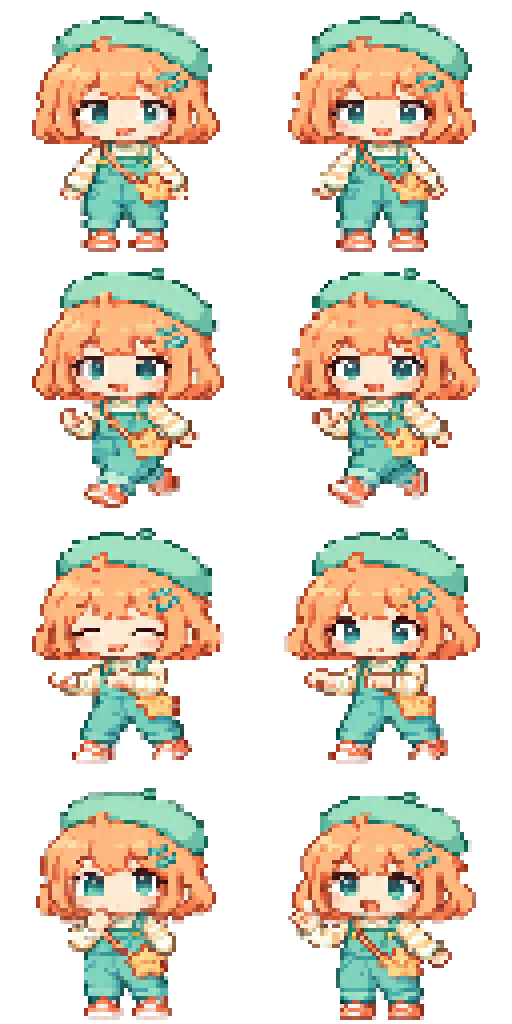
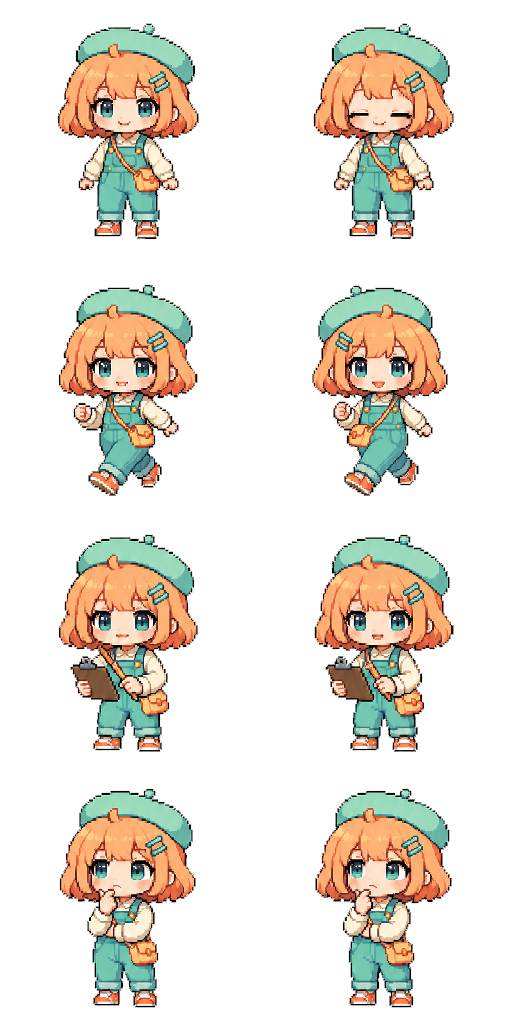
feat: 1차 기능 작성

diff --git a/docs/character-animation-preview.html b/docs/character-animation-preview.html
@@ -1,0 +1,27 @@
+<!doctype html>
+<html lang="ko">
+<meta charset="utf-8">
+<meta name="viewport" content="width=device-width,initial-scale=1">
+<title>캐릭터 프레임 미리보기</title>
+<style>
+*{box-sizing:border-box}body{margin:0;background:#20232b;color:#f5f2ee;font:15px system-ui,sans-serif;padding:24px}h1{font-size:24px;margin:0 0 8px}p{color:#b8bcc8;margin:0 0 16px}.controls{display:flex;gap:12px;align-items:center;flex-wrap:wrap;margin-bottom:20px}button,select{background:#383f4f;color:white;border:1px solid #626d82;border-radius:6px;padding:8px 12px;font:inherit}table{border-collapse:separate;border-spacing:6px}th{font-size:13px;font-weight:500;color:#b8bcc8}td{padding:0}canvas{display:block;width:clamp(64px,calc((100vw - 108px) / 5),192px);height:auto;image-rendering:pixelated;background:#a09895;border-radius:4px}.table-wrap{overflow:auto}small{color:#b8bcc8}body.grid canvas{outline:1px solid #fff5}
+</style>
+<h1>캐릭터 프레임 미리보기</h1>
+<p>512×1024 · 2열 × 4행 · 256×256 프레임 · 불투명 배경</p>
+<div class="controls"><button id="play">일시 정지</button><button id="a">프레임 A</button><button id="b">프레임 B</button><label>속도 <select id="speed"><option value="0.5">0.5×</option><option value="1" selected>1×</option><option value="2">2×</option></select></label><label><input type="checkbox" id="guide"> 셀 기준선</label><small id="status">이미지 로딩 중</small></div>
+<div class="table-wrap"><table><thead><tr><th>동작</th><th>char_0</th><th>char_1</th><th>char_2</th><th>char_3</th><th>char_4</th></tr></thead><tbody id="rows"></tbody></table></div>
+<script>
+const states=['idle','walk','work','think'], durations=[680,160,280,420];
+const images=Array.from({length:5},(_,i)=>{const image=new Image();image.src='../tools/generated-inputs/characters/char_'+i+'.png';return image});
+const cells=[];let paused=matchMedia('(prefers-reduced-motion: reduce)').matches, fixed=0,elapsed=0,last=performance.now();
+states.forEach((state,row)=>{const tr=document.createElement('tr');const th=document.createElement('th');th.textContent=state;tr.append(th);images.forEach((image,col)=>{const td=document.createElement('td'),canvas=document.createElement('canvas');canvas.width=canvas.height=256;canvas.setAttribute('aria-label','char_'+col+' '+state);td.append(canvas);tr.append(td);cells.push({canvas,image,row})});document.querySelector('#rows').append(tr)});
+function label(){document.querySelector('#play').textContent=paused?'재생':'일시 정지'}label();
+document.querySelector('#play').onclick=()=>{paused=!paused;label()};
+for(const [id,frame] of [['a',0],['b',1]])document.querySelector('#'+id).onclick=()=>{paused=true;fixed=frame;label()};
+let ready=false;
+Promise.all(images.map(image=>image.decode())).then(()=>{if(images.some(i=>i.naturalWidth!==512||i.naturalHeight!==1024))throw Error('이미지 규격 불일치');ready=true;document.querySelector('#status').textContent='5개 시트 · 40개 프레임 로드 완료'}).catch(error=>{document.querySelector('#status').textContent=error.message});
+function draw(now){if(!paused)elapsed+=(now-last)*Number(document.querySelector('#speed').value);last=now;if(ready)for(const {canvas,image,row} of cells){const frame=paused?fixed:Math.floor(elapsed/durations[row])%2,ctx=canvas.getContext('2d');ctx.imageSmoothingEnabled=false;ctx.drawImage(image,frame*256,row*256,256,256,0,0,256,256);canvas.dataset.frame=frame;if(document.querySelector('#guide').checked){ctx.strokeStyle='#ffffff80';ctx.setLineDash([3,3]);ctx.beginPath();ctx.moveTo(128,0);ctx.lineTo(128,256);ctx.moveTo(0,240);ctx.lineTo(256,240);ctx.stroke();ctx.strokeRect(12,12,232,232)}}requestAnimationFrame(draw)}requestAnimationFrame(draw);
+</script>
+</html>
+
+

diff --git a/src/components/PixelOffice.tsx b/src/components/PixelOffice.tsx
@@ -26,6 +26,7 @@ import {
   WORLD_COLS,
   WORLD_ROWS,
   characterFrame,
+  characterNeedsHorizontalFlip,
   characterStateRow,
   createBlockedTiles,
   directionBetween,
@@ -52,6 +53,8 @@ type Props = {
   onAssignPet: (role: AgentRole, petId: string) => void;
   characterAssignments: WorldCharacterAssignments;
   onAssignCharacter: (role: AgentRole, index: number) => void;
+  animationEnabled: boolean;
+  onToggleAnimation: () => void;
   onOpenResults: () => void;
 };
 
@@ -393,6 +396,8 @@ export function PixelOffice({
   modelLabel,
   characterAssignments,
   onAssignCharacter,
+  animationEnabled,
+  onToggleAnimation,
   onOpenResults,
 }: Props) {
   const canvasRef = useRef<HTMLCanvasElement | null>(null);
@@ -411,7 +416,7 @@ export function PixelOffice({
   const [zoom, setZoom] = useState(2);
   const [handoff, setHandoff] = useState<Handoff | null>(null);
   const handoffRef = useRef<Handoff | null>(null);
-  const [reducedMotion, setReducedMotion] = useState(() => window.matchMedia("(prefers-reduced-motion: reduce)").matches);
+  const reducedMotion = !animationEnabled;
 
   const agents = useMemo(() => {
     const byRole = new Map((run?.agents ?? []).map((agent) => [agent.role, agent]));
@@ -448,13 +453,6 @@ export function PixelOffice({
       if (window.render_game_to_text === renderWorldState) delete window.render_game_to_text;
       delete window.advanceTime;
     };
-  }, []);
-
-  useEffect(() => {
-    const query = window.matchMedia("(prefers-reduced-motion: reduce)");
-    const update = () => setReducedMotion(query.matches);
-    query.addEventListener("change", update);
-    return () => query.removeEventListener("change", update);
   }, []);
 
   useEffect(() => {
@@ -669,7 +667,7 @@ export function PixelOffice({
             if (!sprite) return;
             const frame = reducedMotion ? 0 : characterFrame(agent.snapshot.activity, moving, simulationTime / 1000 + agent.spriteIndex * 0.17);
             const row = characterStateRow(agent.snapshot.activity, moving);
-            if (agent.direction === "left") {
+            if (characterNeedsHorizontalFlip(agent.direction, moving)) {
               ctx.save();
               ctx.translate(drawX + CHARACTER_DRAW_WIDTH * currentZoom, 0);
               ctx.scale(-1, 1);
@@ -833,6 +831,15 @@ export function PixelOffice({
            <span>{zoom}×</span>
            <button type="button" onClick={() => setWorldZoom(zoom + 1)} disabled={zoom >= 4} aria-label="확대">+</button>
            <button type="button" onClick={() => { panRef.current = { x: 0, y: 0 }; setWorldZoom(2); }}>RESET</button>
+           <button
+             type="button"
+             className={`pixel-motion-toggle ${animationEnabled ? "active" : ""}`}
+             aria-pressed={animationEnabled}
+             aria-label={animationEnabled ? "애니메이션 끄기" : "애니메이션 켜기"}
+             onClick={onToggleAnimation}
+           >
+             {animationEnabled ? "애니 ON" : "애니 OFF"}
+           </button>
          </div>
        </div>
 
@@ -868,6 +875,7 @@ export function PixelOffice({
 
         <div className={`pixel-asset-status ${assetStatus.errors.length ? "has-error" : ""}`}>
           {assetStatus.loaded < assetStatus.total ? `ASSETS ${assetStatus.loaded}/${assetStatus.total}` : assetStatus.errors.length ? `${assetStatus.errors.length} ASSET ERRORS` : "PIXEL ASSETS READY"}
+          <small className="pixel-motion-status">{animationEnabled ? " · ANIMATION ON" : " · REDUCED MOTION"}</small>
         </div>
 
         <div className="pixel-world-bubble-layer" aria-hidden="true">

diff --git a/src/App.tsx b/src/App.tsx
@@ -24,6 +24,7 @@ import {
 
 const MODEL_KEY = "auto-codex.model";
 const EFFORT_KEY = "auto-codex.reasoning-effort";
+const MOTION_KEY = "auto-codex.animation-enabled";
 type LeftPanel = "workspace" | "operations";
 type MainView = "pixel" | "results";
 
@@ -50,6 +51,14 @@ export default function App() {
   const [selectedEffort, setSelectedEffort] = useState<ReasoningEffort | "">(
     () => (window.localStorage.getItem(EFFORT_KEY) as ReasoningEffort | null) || "",
   );
+  const [systemReducedMotion, setSystemReducedMotion] = useState(
+    () => window.matchMedia("(prefers-reduced-motion: reduce)").matches,
+  );
+  const [motionOverride, setMotionOverride] = useState<boolean | null>(() => {
+    const stored = window.localStorage.getItem(MOTION_KEY);
+    return stored === "true" ? true : stored === "false" ? false : null;
+  });
+  const animationEnabled = motionOverride ?? !systemReducedMotion;
   const projectPath = bridge.snapshot.projectPath;
   const workspaceMode = bridge.snapshot.workspaceMode;
   const activeRun = bridge.snapshot.activeRun;
@@ -79,6 +88,19 @@ export default function App() {
   useEffect(() => {
     setPetAssignments(loadPetAssignments(projectPath));
   }, [projectPath]);
+
+  useEffect(() => {
+    const query = window.matchMedia("(prefers-reduced-motion: reduce)");
+    const update = () => setSystemReducedMotion(query.matches);
+    query.addEventListener("change", update);
+    return () => query.removeEventListener("change", update);
+  }, []);
+
+  const toggleAnimation = () => {
+    const next = !animationEnabled;
+    setMotionOverride(next);
+    window.localStorage.setItem(MOTION_KEY, String(next));
+  };
 
   useEffect(() => {
     if (bridge.models.length === 0) return;
@@ -143,7 +165,7 @@ export default function App() {
   };
 
   return (
-    <main className="app-shell metaverse-app">
+    <main className={`app-shell metaverse-app ${animationEnabled ? "motion-enabled" : "motion-disabled"}`}>
       <header className="topbar">
         <a className="brand" href="/" aria-label="Auto Codex 홈">
           <span className="brand-mark">AC</span>
@@ -291,6 +313,7 @@ export default function App() {
               assistantText={bridge.assistantText}
               taskOutputs={bridge.taskOutputs}
               characterAssignments={worldCharacterAssignments}
+              animationEnabled={animationEnabled}
               streaming={busy}
               onOpenResults={() => setMainView("results")}
             />
@@ -315,6 +338,8 @@ export default function App() {
               onAssignPet={assignPet}
               characterAssignments={worldCharacterAssignments}
               onAssignCharacter={assignWorldCharacter}
+              animationEnabled={animationEnabled}
+              onToggleAnimation={toggleAnimation}
               onOpenResults={() => setMainView("results")}
             />
           ) : (
@@ -330,7 +355,7 @@ export default function App() {
 
       </div>
 
-      <footer><span>Auto Codex · local-first</span><span>애니메이션은 실제 App Server 이벤트에서만 상태가 바뀝니다.</span></footer>
+      <footer><span>Auto Codex · local-first</span><span>애니메이션은 시스템 설정과 애니메이션 토글을 따르며, 상태·이동은 실제 App Server 이벤트를 반영합니다.</span></footer>
       {bridge.approvals[0] && (
         <ApprovalDialog approval={bridge.approvals[0]} onResolve={(decision) => bridge.resolveApproval(bridge.approvals[0].approvalId, decision)} />
       )}

diff --git a/src/components/OperationsPanel.tsx b/src/components/OperationsPanel.tsx
@@ -12,6 +12,7 @@ type Props = {
   assistantText: string;
   taskOutputs: Record<string, string>;
   characterAssignments: WorldCharacterAssignments;
+  animationEnabled?: boolean;
   streaming: boolean;
   onOpenResults?: () => void;
 };
@@ -40,7 +41,7 @@ function timeLabel(timestamp: string): string {
     : parsed.toLocaleTimeString("ko-KR", { hour: "2-digit", minute: "2-digit", second: "2-digit" });
 }
 
-export function OperationsPanel({ activities, run, assistantText, taskOutputs, characterAssignments, streaming, onOpenResults }: Props) {
+export function OperationsPanel({ activities, run, assistantText, taskOutputs, characterAssignments, animationEnabled = true, streaming, onOpenResults }: Props) {
   const [tab, setTab] = useState<PanelTab>("activity");
   const outputs = useMemo(() => run?.tasks.map((task) => ({
     task,
@@ -71,7 +72,7 @@ export function OperationsPanel({ activities, run, assistantText, taskOutputs, c
               const spriteIndex = characterIndexForRole(role, characterAssignments);
               return (
                 <article className={`activity-card state-${activity.state}`} key={activity.id}>
-                  <div className="activity-face"><WorldCharacter spriteIndex={spriteIndex} state={activity.state} size={64} /></div>
+                  <div className="activity-face"><WorldCharacter spriteIndex={spriteIndex} state={activity.state} size={64} animated={animationEnabled} /></div>
                   <div className="activity-copy">
                     <div><strong>{ROLE_LABELS[role]}</strong><time>{timeLabel(activity.timestamp)}</time></div>
                     <h3>{activity.title}</h3>

diff --git a/src/world/pixelWorld.test.ts b/src/world/pixelWorld.test.ts
@@ -13,6 +13,7 @@ import {
   STATIONS,
   characterFrame,
   characterFrameDuration,
+  characterNeedsHorizontalFlip,
   characterStateRow,
   createBlockedTiles,
   directionBetween,
@@ -76,6 +77,12 @@ describe("pixel character animation", () => {
   it("resolves four-connected movement direction", () => {
     expect(directionBetween({ col: 2, row: 2 }, { col: 3, row: 2 })).toBe("right");
     expect(directionBetween({ col: 2, row: 2 }, { col: 2, row: 1 })).toBe("up");
+  });
+
+  it("mirrors the authored left-facing walk row only while moving right", () => {
+    expect(characterNeedsHorizontalFlip("left", true)).toBe(false);
+    expect(characterNeedsHorizontalFlip("right", true)).toBe(true);
+    expect(characterNeedsHorizontalFlip("right", false)).toBe(false);
   });
 
   it("cycles every authored runtime state through more than one frame", () => {

diff --git a/src/pixel-world.css b/src/pixel-world.css
@@ -101,6 +101,24 @@
   font-size: 8px;
 }
 
+.pixel-world-controls .pixel-motion-toggle {
+  width: auto;
+  padding-inline: 7px;
+  color: #79535e;
+  background: #ffe8ef;
+  font-size: 8px;
+}
+
+.pixel-world-controls .pixel-motion-toggle.active {
+  color: #315f54;
+  background: #d7f6df;
+}
+
+.pixel-world-controls .pixel-motion-toggle:focus-visible {
+  outline: 2px solid #513e62;
+  outline-offset: 2px;
+}
+
 .pixel-asset-status {
   position: absolute;
   z-index: 7;
@@ -118,6 +136,11 @@
 .pixel-asset-status.has-error {
   color: #ffe7d7;
   background: #a34f4b;
+}
+
+.pixel-motion-status {
+  color: #806a83;
+  font: inherit;
 }
 
 .pixel-agent-inspector {

diff --git a/src/world/pixelWorld.ts b/src/world/pixelWorld.ts
@@ -293,6 +293,14 @@ export function directionBetween(from: TilePoint, to: TilePoint): Direction {
   return "down";
 }
 
+/**
+ * The authored walk row is the left-facing source pose. Mirror only that row
+ * while moving right so the two authored frames work in both directions.
+ */
+export function characterNeedsHorizontalFlip(direction: Direction, moving: boolean): boolean {
+  return moving && direction === "right";
+}
+
 export function characterFrame(state: PetState, moving: boolean, elapsedSeconds: number): number {
   return Math.floor(elapsedSeconds / characterFrameDuration(state, moving)) % CHARACTER_FRAME_COLUMNS;
 }

diff --git a/src/metaverse.css b/src/metaverse.css
@@ -1210,3 +1210,10 @@ body {
   .world-character.is-animated,
   .collapse-glyph { animation: none; transition: none; }
 }
+
+/* An explicit user choice in the world toolbar may opt back into motion even
+   when the OS/browser prefers reduced motion. The default still follows the
+   system preference. */
+.motion-enabled .world-character.is-animated {
+  animation: character-frame-swap var(--character-frame-duration, .68s) steps(1, end) infinite, character-soft-bob 1.4s steps(2, end) infinite !important;
+}

diff --git a/docs/PIXEL_WORLD.md b/docs/PIXEL_WORLD.md
@@ -31,6 +31,13 @@ Codex and then rasterized into the exact runtime dimensions used by the world.
 - Character sheets: 512 by 1024 pixels with a regular 2 by 4 grid of 256-pixel
   square cells. Each `idle`, `moving`, `working`, and `thinking` row contains
   two authored frames.
+  The September 2026 repair uses fully opaque warm-gray RGB backgrounds
+  (#A09895), a 12px minimum cell margin, and a local foot baseline of y=240.
+  The authored walk row is the left-facing source pose; the Canvas mirrors
+  those two frames only while an agent is moving right.
+  The world toolbar includes an explicit animation toggle. It follows
+  `prefers-reduced-motion` by default and stores an explicit user choice so the
+  sprite frames can be enabled when the system setting is too restrictive.
   Characters render in a 3:4 box at 24 by 32 logical pixels (48 by 64 screen
   pixels at the default world zoom).
 - Character animation mapping: row 0 is `idle` plus `success`/`error`, row 1 is
@@ -60,10 +67,14 @@ shifting.
 
 `tools/generated-inputs/` stores the reviewed runtime-ready source sheets and
 `tools/build-generated-pixel-assets.ps1` deterministically exports the runtime
-files. `tools/build-character-sprites.py` removes connected generated
-backgrounds, aligns feet, and exports 2x4 sheets with 256px square cells and
-eight active frames. The QA contact sheet is
-`docs/character-sprites-preview.jpg`.
+files. The repaired opaque sheets are finalized with
+`tools/finalize-character-sheets.ps1`; it assembles reviewed ImageGen regions,
+uses one nearest-neighbor scale per character, aligns feet, and verifies
+dimensions, opacity, margins and nonidentical frame pairs. Do not run the
+legacy background-removing `tools/build-character-sprites.py` on these opaque
+sheets. The contact sheet is `docs/character-sprites-preview.jpg`; open
+`docs/character-animation-preview.html` for playback and A/B frame inspection.
+The exact built-in ImageGen prompts are in `docs/character-repair-prompts.json`.
 
 The bridge and approval boundaries are unchanged. The Canvas renderer receives
 only normalized snapshots and never executes commands.

diff --git a/docs/WORLD_ASSETS.md b/docs/WORLD_ASSETS.md
@@ -16,10 +16,14 @@ Auto Codex의 실제 픽셀 월드 이미지는 `public/world/`에 있습니다.
 
 `auto-codex-campus.png`는 `.metaverse-map`의 배경이며, 기존 CSS 방과 가구는 클릭 영역만 남기고 숨깁니다. Canvas 픽셀 오피스는 논리 타일 16px을 유지하되 캐릭터·가구·바닥을 2배 픽셀 밀도로 내보내 기본 2× 표시에서 세부가 뭉개지지 않게 합니다. `auto-codex-effects.png`는 `idle`, `thinking`, `reading`, `editing`, `running`, `waitingApproval`, `success`, `error`, `handoff` 상태에 매핑됩니다.
 
-새 캐릭터 시트는 built-in ImageGen으로 생성한 뒤 프로젝트의
-`tools/build-character-sprites.py`로 256×256 셀, 2열×4행, 총 512×1024 구조로
+현재 캐릭터 시트는 built-in ImageGen으로 수정한 뒤 프로젝트의
+`tools/finalize-character-sheets.ps1`로 256×256 셀, 2열×4행, 총 512×1024 구조로
 정렬했습니다. 행 순서는 idle, moving, working, thinking이며 각 행에
 애니메이션 프레임 2개를 배치합니다.
+2026-09 수정본은 기존 캐릭터의 정체성을 유지하고 머리 누락과 보행을 보정했습니다.
+배경은 요청에 따라 불투명 RGB #A09895이며, 발 기준선은 각 셀 y=240입니다.
+현재 수정 프롬프트는 `character-repair-prompts.json`, 재생 미리보기는
+`character-animation-preview.html`에 있습니다. 아래는 최초 생성 당시 기록입니다.
 제공 이미지는 체형과 픽셀 분위기 참고로만 사용했고, 캐릭터 정체성,
 헤어, 의상, 액세서리, 실루엣과 색 구성은 모두 새로 설계했습니다.
 
